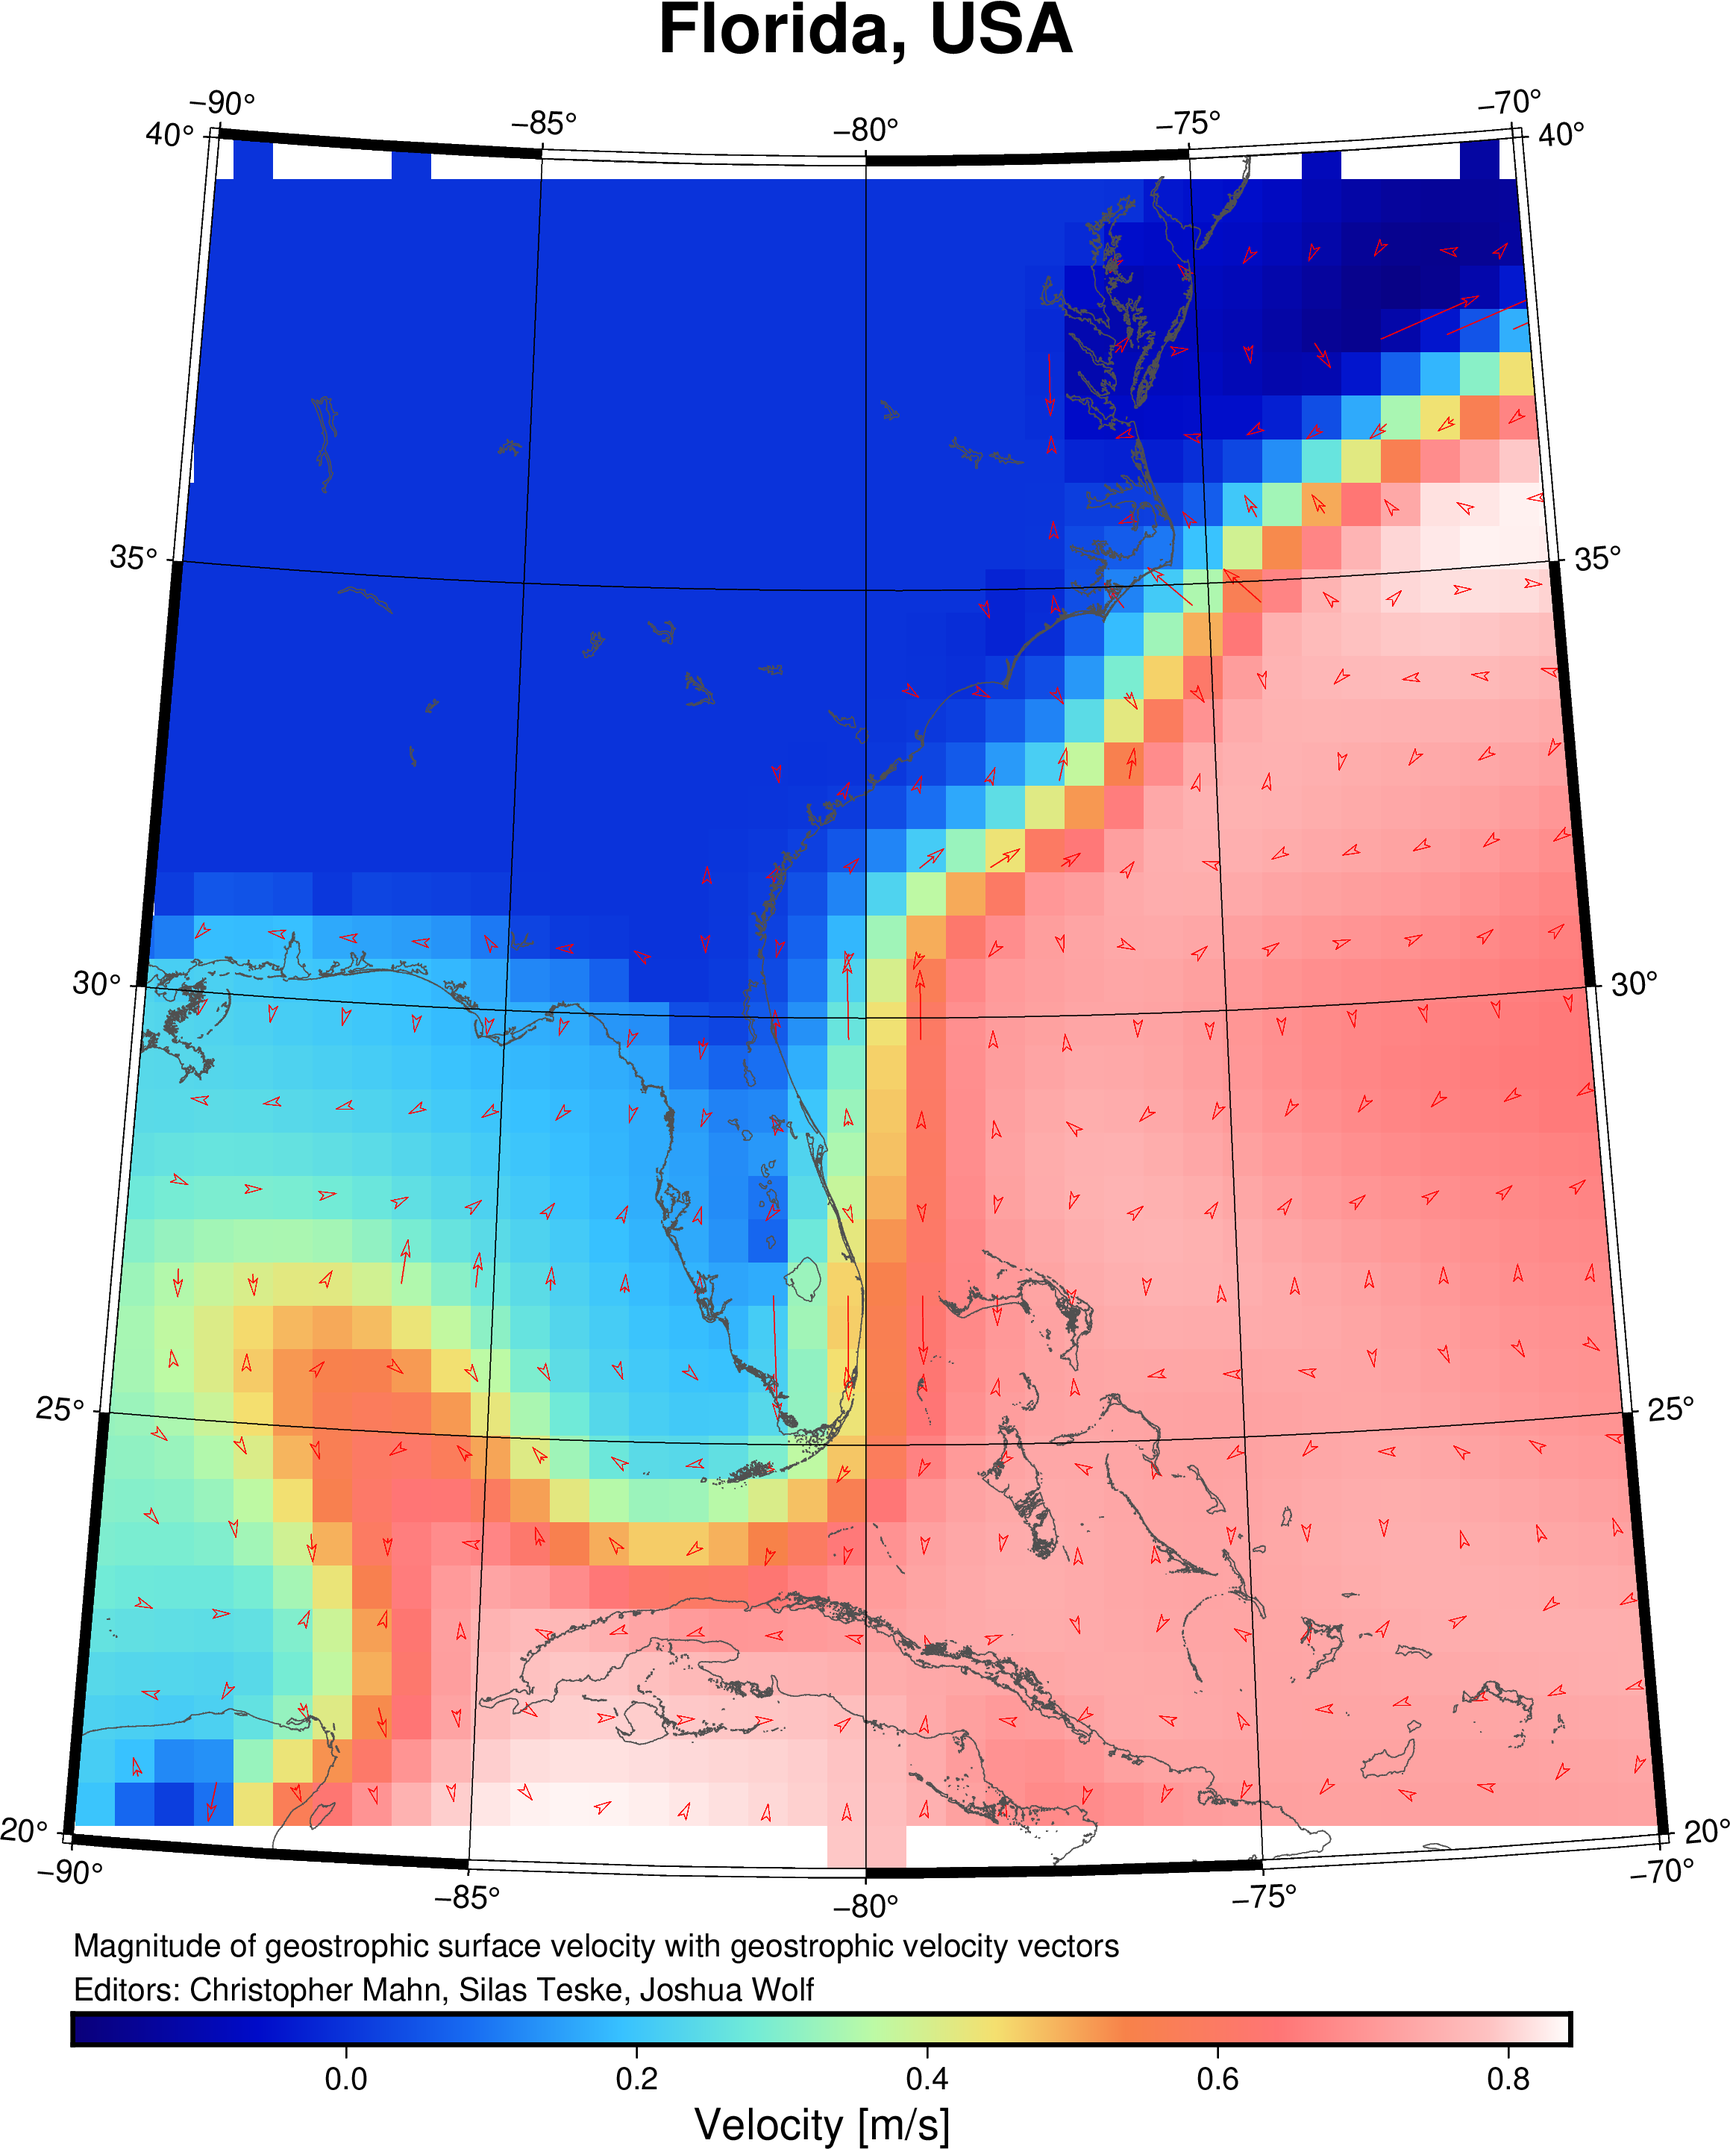
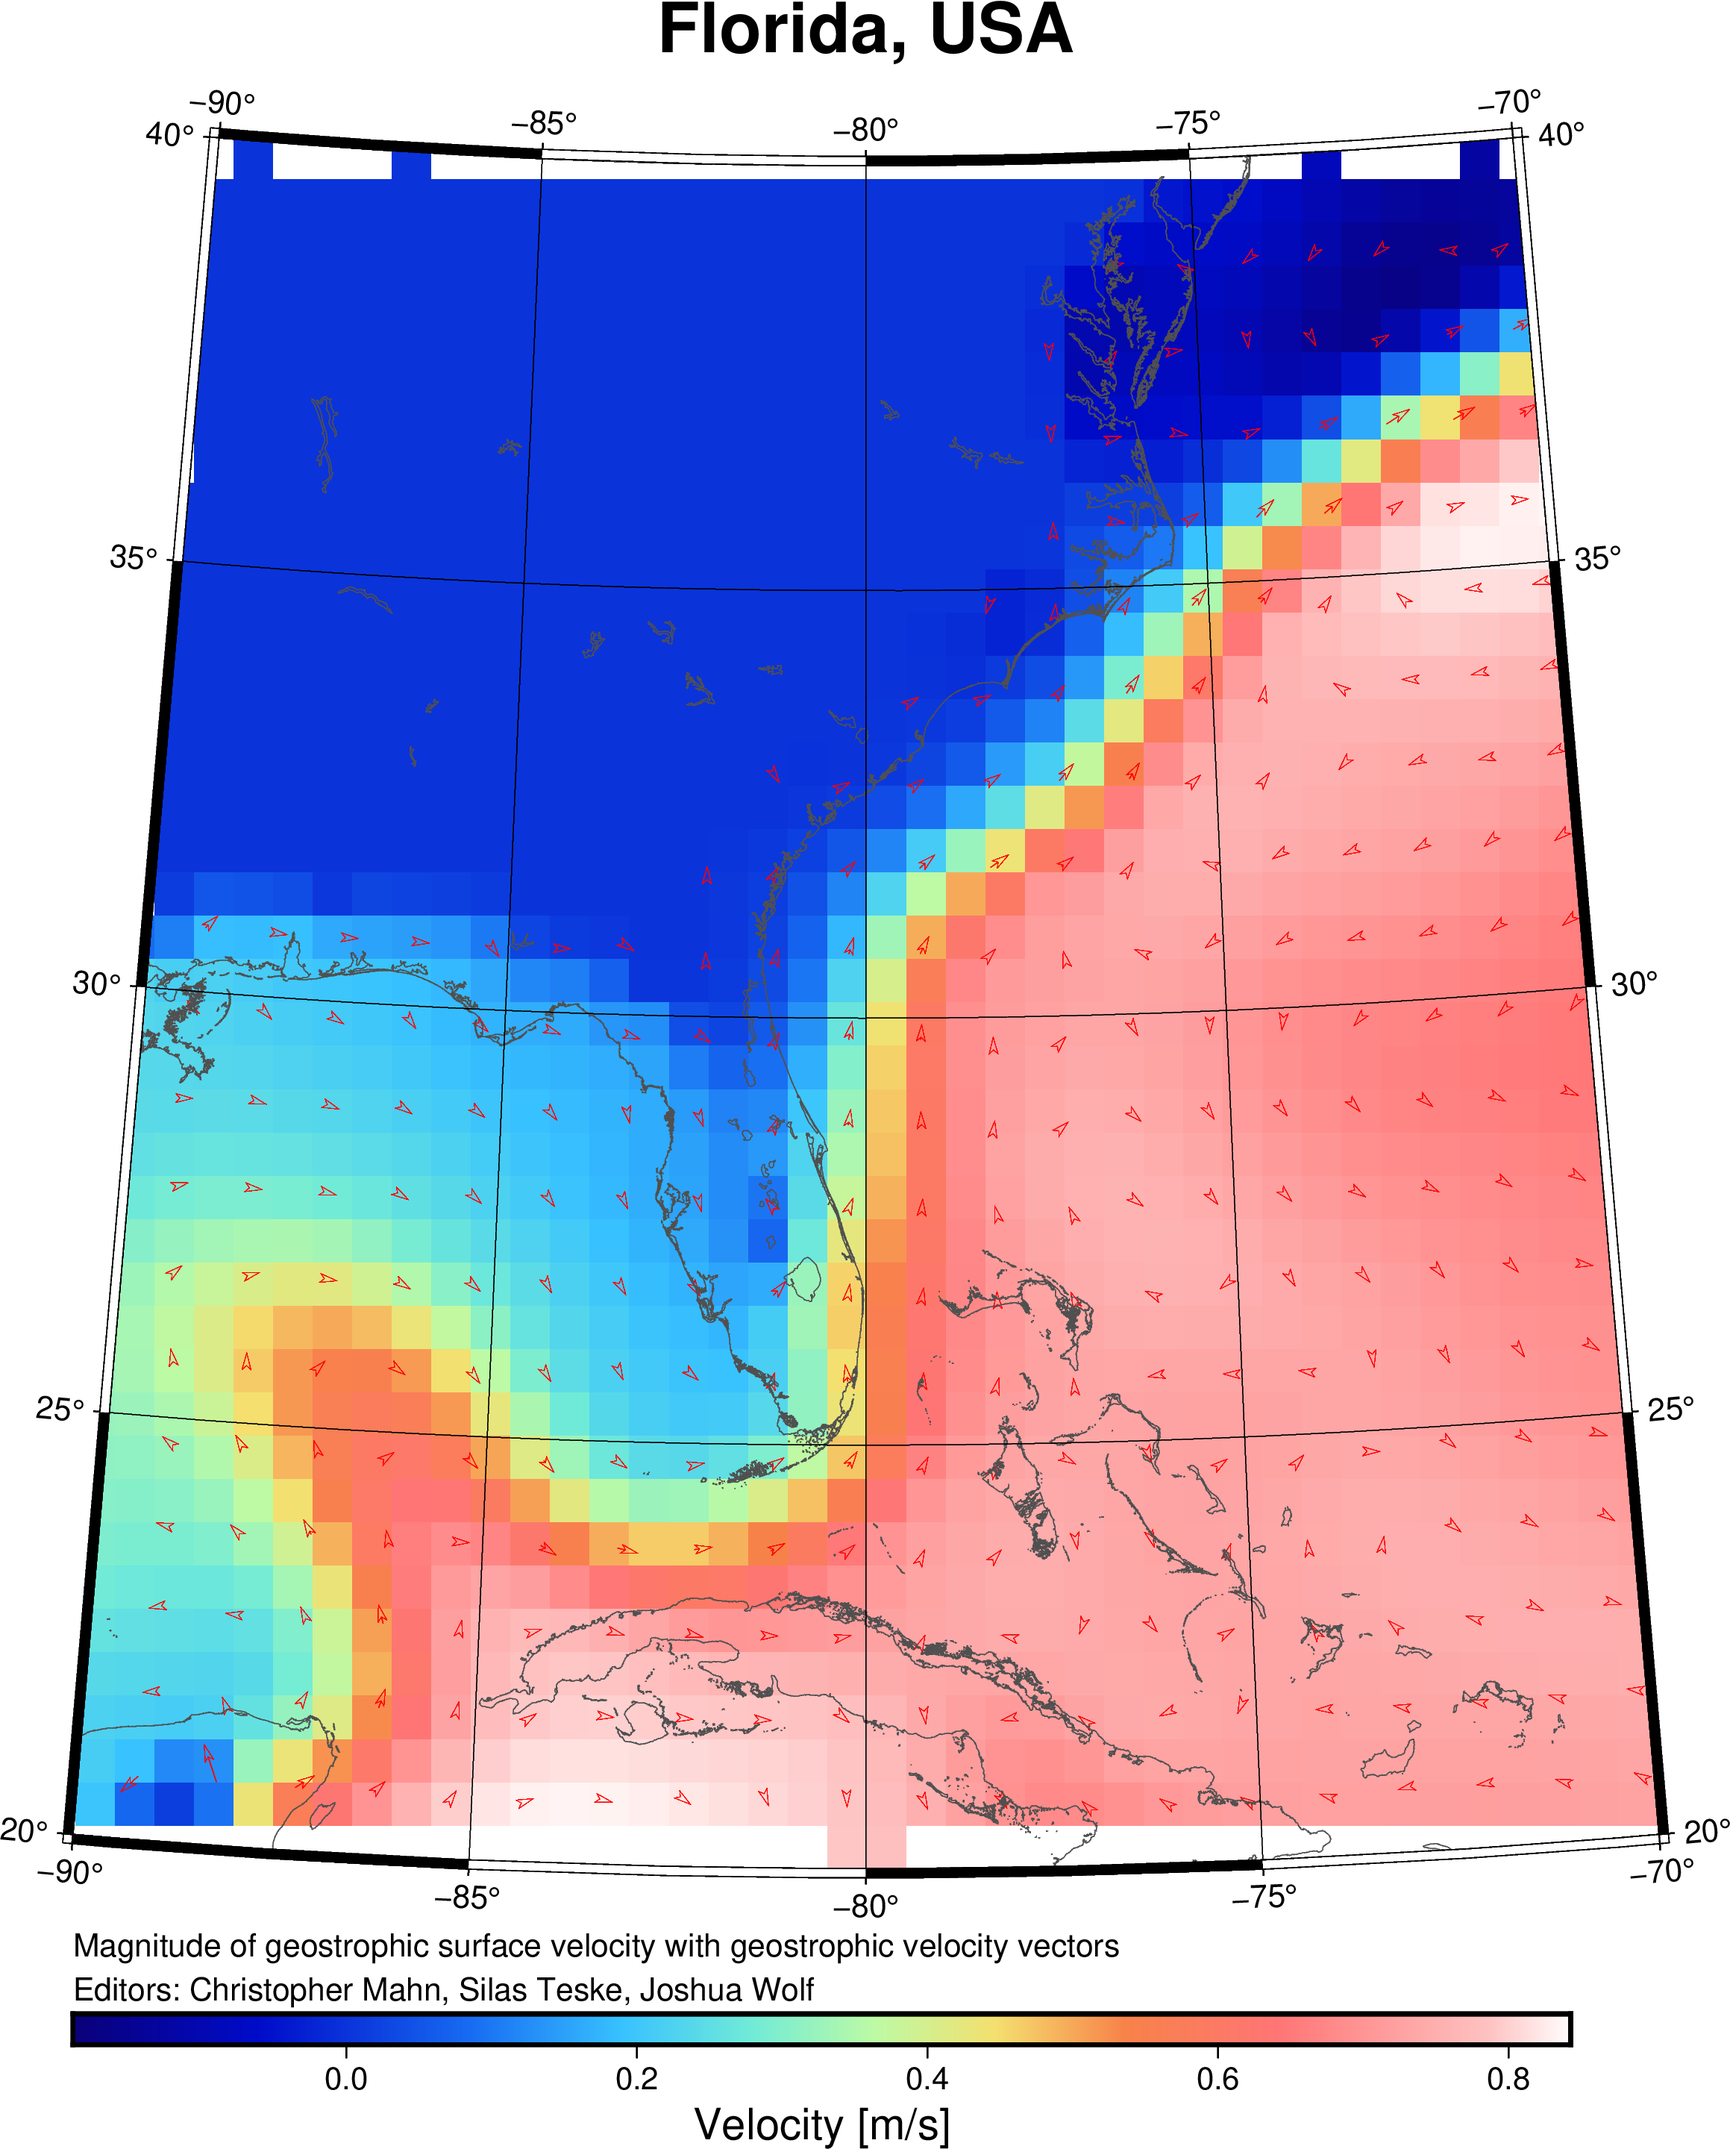
task_03 finalized

diff --git a/task_03/task3.py b/task_03/task3.py
@@ -26,7 +26,7 @@ import functions as fu
 g                   = 9.807                 # Gravitational acceleration [m/s^2]
 omega               = (2*np.pi)/(24*60*60)  # Rotational velocity of the Earth
 radius              = 6.378137000e+06       # m
-rho_grad            = np.pi/180             # kg/m^3
+rho_grad            = 180/np.pi             # Conversion factor from radians to degrees
 
 # Functions
 # -----------------------------------------------------------------------------
@@ -114,9 +114,12 @@ def run_gmt(input_file_name="test_input",
 def calc_velocity(mdt, lon, lat, grid_spacing=0.5):
     u = np.zeros((len(lat), len(lon)))
     v = np.zeros((len(lat), len(lon)))
+    grid_spacing /= rho_grad
     for index_phi, phi in enumerate(lat):
+        phi /= rho_grad
         f = 2*omega*np.sin(phi)
         for index_lam, lam in enumerate(lon):
+            lam /= rho_grad
             if index_lam == 0:
                 continue
             elif index_lam == len(lon)-1:
@@ -126,8 +129,8 @@ def calc_velocity(mdt, lon, lat, grid_spacing=0.5):
             elif index_phi == len(lat)-1:
                 continue
             else:
-                dx = radius * np.cos(phi)*(grid_spacing*rho_grad)
-                dy = radius * (grid_spacing*rho_grad)
+                dx = radius * np.cos(phi)*grid_spacing
+                dy = radius * grid_spacing
                 dhx = mdt[index_phi][index_lam + 1] - mdt[index_phi][index_lam - 1]
                 dhy = mdt[index_phi + 1][index_lam] - mdt[index_phi - 1][index_lam]
                 u[index_phi][index_lam] = -(g/f)*(dhy/(2*dy))
